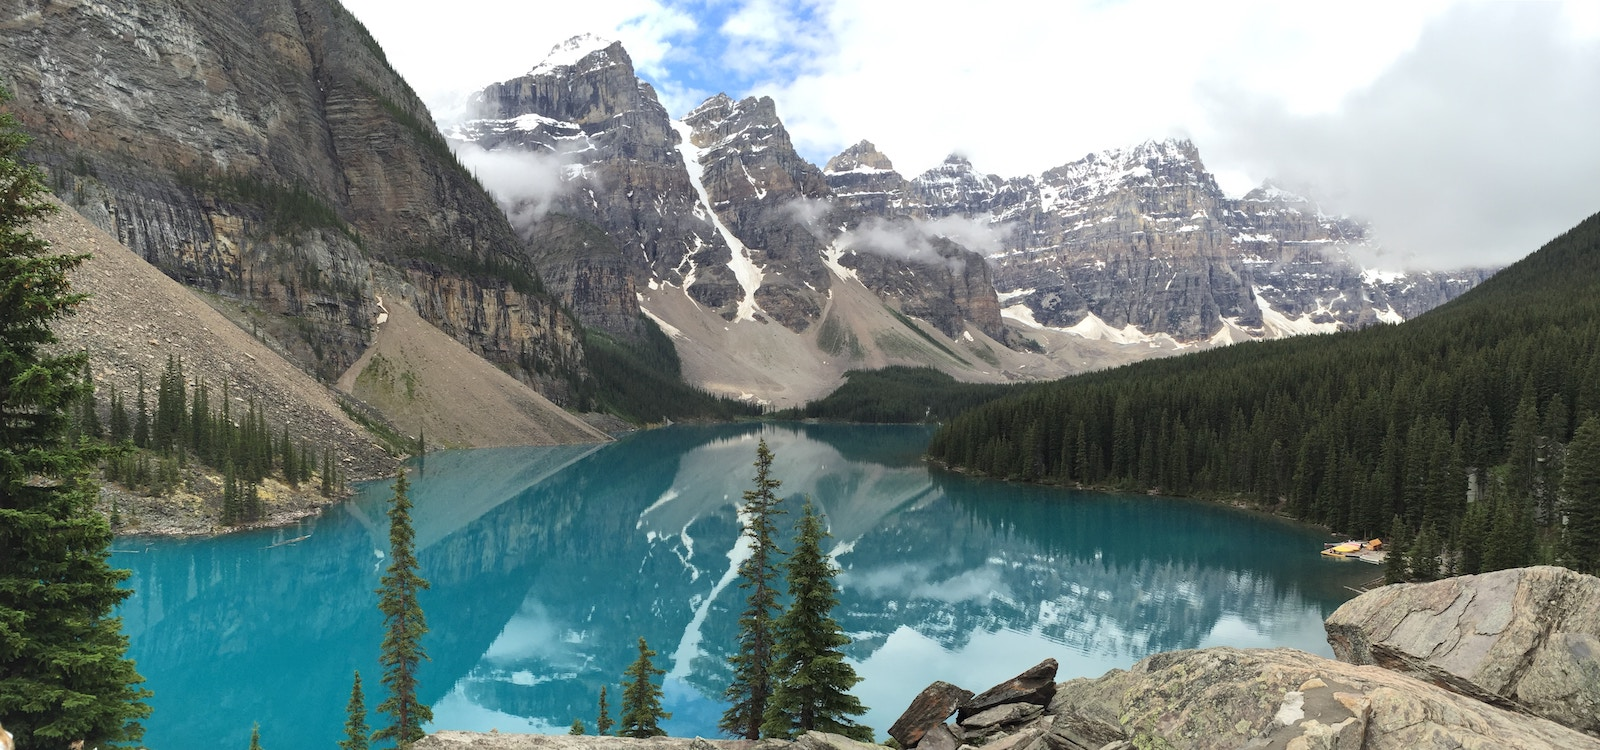
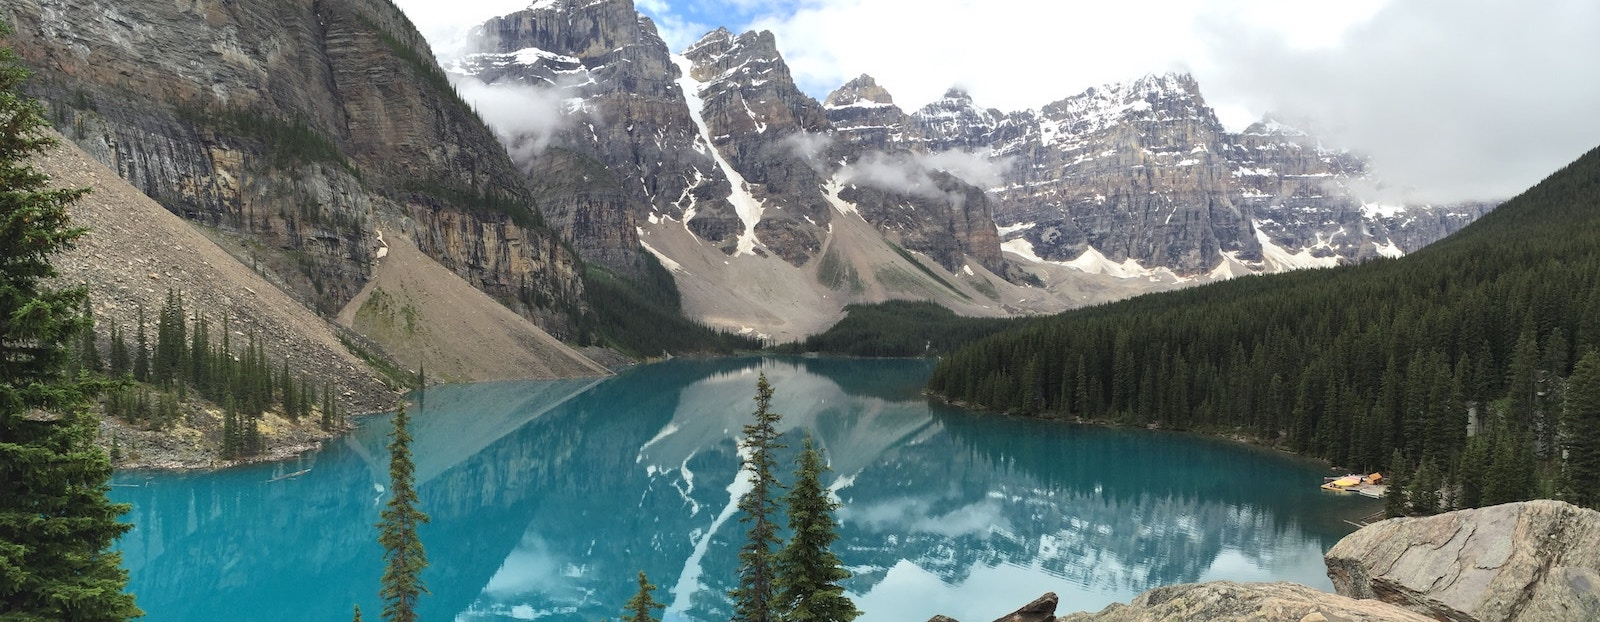
edit aboutus page

diff --git a/AboutUs.html b/AboutUs.html
@@ -1,7 +1,7 @@
 <!DOCTYPE html>
 <html lang="en">
 <head>
-	<title> Rami Travel</title>
+	<title>About US | Rami Travel</title>
 	<meta charset="utf-8">
 	<link rel="stylesheet" type="text/css" href="Stylepage_miho.css">
 </head>
@@ -20,14 +20,19 @@
 		</ul>
 	</nav>
 
-<h1 class="pagetitle">About Us</h1>
 
-<article>
-	We are Vancouver based travel agency.<br>
-	Take a bunch of experienced travel junkies and set them loose to create the sort of unforgettable journeys they'd want to experience themselves. That simple formula has been working for over 30 years, guiding us as we've sent thousands of delighted travelers all over the world. We're obsessed with creating awesome experiences that connect people and cultures and enrich lives, delivered with personal attention and heart.
+<div class="about_us">
+	
+	<h1 class="pagetitle">About Us</h1>
 
-</article>
+	<img src="image/02_aboutus_top.jpg">
 
+	<article>
+		We are Vancouver based travel agency.<br>
+		Take a bunch of experienced travel junkies and set them loose to create the sort of unforgettable journeys they'd want to experience themselves. That simple formula has been working for over 30 years, guiding us as we've sent thousands of delighted travelers all over the world. We're obsessed with creating awesome experiences that connect people and cultures and enrich lives, delivered with personal attention and heart.
+
+	</article>
+</div>
 
 
 <footer>
